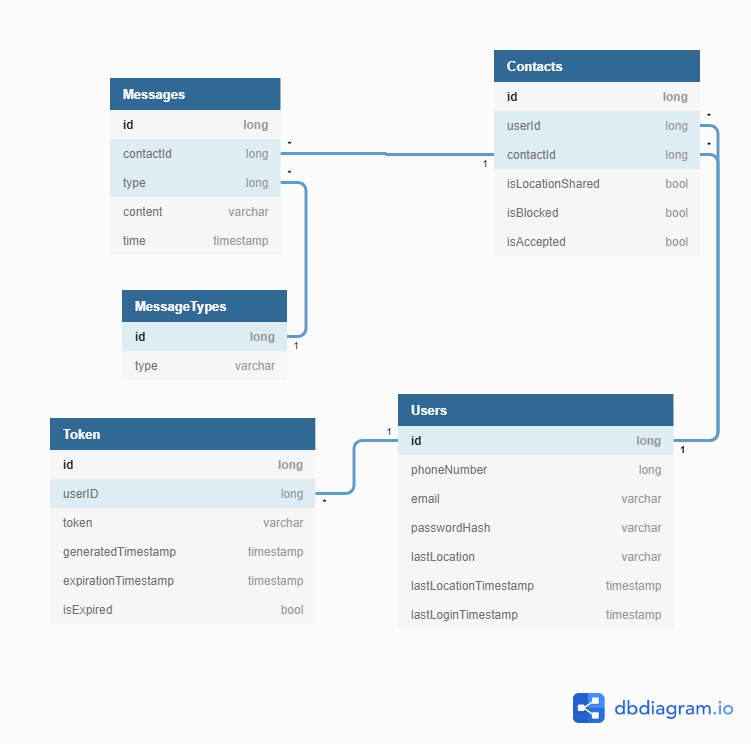
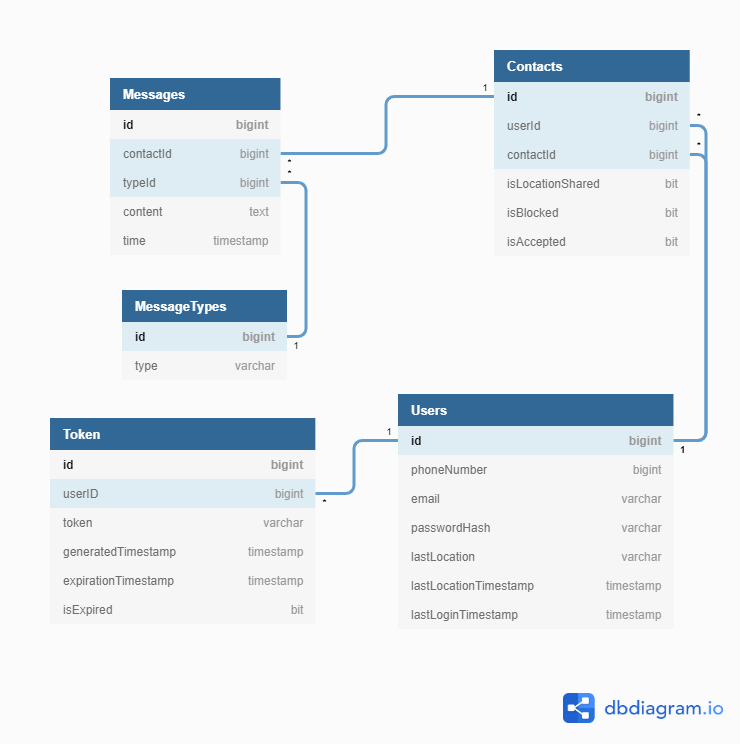
Started working on database project

diff --git a/docs/Stage-3/database-project.md b/docs/Stage-3/database-project.md
@@ -1,0 +1,60 @@
+# Projekt bazy danych
+
+## Diagram tabel oraz ich relacji
+![Projekt bazy](../../images/db-schema.png)
+
+## Opisy pól
+
+### MessageTypes
+| Nazwa | Typ     | Opis                                                  | Właściwości i ograniczenia                                  | PK                          | FK  |
+| ----- | ------- | ----------------------------------------------------- | ----------------------------------------------------------- | --------------------------- | --- |
+| id    | bigint  | Klucz główny tabeli.                                  | autoinkrementowane, unikalne, nie-null                      | ![](../../images/check.png) |     |
+| type  | varchar | Ciąg znaków identyfikujący typ zawartości wiadomości. | nie-null, musi mieć wartość z listy dopuszczalnych wartości |                             |     |
+  ----
+
+### Messages
+| Nazwa     | Typ       | Opis                                                                                                                 | Właściwości i ograniczenia                                                             | PK                          | FK                          |
+| --------- | --------- | -------------------------------------------------------------------------------------------------------------------- | -------------------------------------------------------------------------------------- | --------------------------- | --------------------------- |
+| id        | bigint    | Klucz główny tabeli.                                                                                                 | autoinkrementowane, unikalne, nie-null                                                 | ![](../../images/check.png) |                             |
+| contactId | bigint    | Klucz obcy relacji wiele do jednego z tabelą Contacts.                                                               | nie-null, w tabeli Contacts musi istnieć klucz główny o korespondującej wartości       |                             | ![](../../images/check.png) |
+| typeId    | bigint    | Klucz obcy relacji wiele do jednego z tabelą MessageTypes. Określa typ i format zawartości zapisanej w polu content. | nie-null, w tabeli MessageTypes musi istnieć klucz główny o odpowiadającej mu wartości |                             | ![](../../images/check.png) |
+| content   | text      | Zawartość wiadomości. Korzysta z kodowania znaków UTF-8.                                                             | nie-puste                                                                              |                             |                             |
+| time      | timestamp | Data i godzina (z dokładnością do sekund) wysłania wiadomości. Nie uwzględnia stref czasowych.                       | nie-null, nie może różnić się o więcej niż minutę od chwili wpisania do bazy           |                             |                             |
+  ----
+
+### Contacts
+| Nazwa            | Typ    | Opis                                                                                                    | Właściwości i ograniczenia                                                                                                                                                                                                                                                                   | PK                          | FK                          |
+| ---------------- | ------ | ------------------------------------------------------------------------------------------------------- | -------------------------------------------------------------------------------------------------------------------------------------------------------------------------------------------------------------------------------------------------------------------------------------------- | --------------------------- | --------------------------- |
+| id               | bigint | Klucz główny tabeli.                                                                                    | autoinkrementowane, unikalne, nie-null                                                                                                                                                                                                                                                       | ![](../../images/check.png) |                             |
+| userId           | bigint | Klucz obcy relacji wiele do jednego z tabelą Users. Określa właściciela kontaktu.                       | nie-null, w tabeli Users musi istnieć klucz główny o korespondującej wartości                                                                                                                                                                                                                |                             | ![](../../images/check.png) |
+| contactId        | bigint | Klucz obcy relacji wiele do jednego z tabelą Users. Określa użytkownika będącego obiektem kontaktu.     | nie-null, w tabeli Users musi istnieć klucz główny o odpowiadającej mu wartości                                                                                                                                                                                                              |                             | ![](../../images/check.png) |
+| isLocationShared | bit    | Przechowuje stan współdzielenia lokalizacji (włączone/wyłączone) przez właściciela do obiektu kontaktu. | nie-null, domyślna wartośc 0 (fałsz)                                                                                                                                                                                                                                                         |                             |                             |
+| isBlocked        | bit    | Przechowuje stan blokady obiektu kontaktu B przez właściciela A.                                        | nie-null, domyślna wartość 0                                                                                                                                                                                                                                                                 |                             |                             |
+| isAccepted       | bit    | Przechowuje stan akceptacji prośby o kontakt (oczekująca/zaakceptowana)                                 | nie-null, domyślna wartość 0 (fałsz), zmiana wartości na 1 (prawda) w rekordzie opisującym kontakt między właścicielem A a obiektem kontaktu B powoduje utworzenie nowego rekordu opisującego kontakt między właścicielem B a obiektem kontaktu A (z wartością 1 (prawda) w polu isAccepted) |                             |                             |
+    
+  ----
+### Users
+| Nazwa                 | Typ       | Opis                                                        | Właściwości i ograniczenia                                                          | PK                          | FK  |
+| --------------------- | --------- | ----------------------------------------------------------- | ----------------------------------------------------------------------------------- | --------------------------- | --- |
+| id                    | bigint    | Klucz główny tabeli.                                        | autoinkrementowane, unikalne, nie-null                                              | ![](../../images/check.png) |     |
+| phoneNumer            | varchar   | Numer telefonu użytkownika powiązany z kontem.              | unikalne, nie-null, nie-puste, sprawdzane pod kątem zgodności wyrażeniem regularnym |                             |     |
+| email                 | varchar   | Adres email użytkownika powiązany z kontem.                 | unikalne, nie-null, nie-puste, sprawdzane pod kątem zgodności wyrażeniem regularnym |                             |     |
+| passwordHash          | varchar   | Zasolony i popieprzony hash hasła użytkownika.              | określona długość, nie-null, nie-puste                                              |                             |     |
+| lastLocation          | varchar   | Ciąg znaków określający lokalizację użytkownika.            | zmiana zawartości wyzwala aktualizację pola lastLocationTimestamp                   |                             |     |
+| lastLocationTimestamp | timestamp | Data i czas ostatniej aktualizacji lokalizacji użytkownika. | aktualizowane automatycznie w momencie zmiany zawartości pola lastLocation.         |                             |     |
+| lastLoginTimestamp    | timestamp | Data i czas ostatniego logowania użytkownika.               |                                                                                     |                             |     |
+  
+  ----
+### Token
+| Nazwa               | Typ       | Opis                                                                                                                                                                                             | Właściwości i ograniczenia                                                                                                                                                            | PK                          | FK                          |
+| ------------------- | --------- | ------------------------------------------------------------------------------------------------------------------------------------------------------------------------------------------------ | ------------------------------------------------------------------------------------------------------------------------------------------------------------------------------------- | --------------------------- | --------------------------- |
+| id                  | bigint    | Klucz główny tabeli.                                                                                                                                                                             | autoinkrementowane, unikalne, nie-null                                                                                                                                                | ![](../../images/check.png) |                             |
+| userId              | bigint    | Klucz obcy relacji wiele do jednego z tabelą Users. Określa właściciela tokenu.                                                                                                                  | nie-null, w tabeli Users musi istnieć klucz główny o korespondującej wartości                                                                                                         |                             | ![](../../images/check.png) |
+| token               | varchar   | Token służący do weryfikacji autentyczności zapytań z wysyłanych klienta oraz przechowywania logowania użytkownika.                                                                              | nie-null, nie-pusty, unikalny                                                                                                                                                         |                             |                             |
+| generatedTimestamp  | timestamp | Określa moment wygenerowania tokenu. Nie uwzględnia stref czasowych.                                                                                                                             | nie-null, nie może różnić się o więcej niż minutę od chwili wpisania do bazy, okresowo porównywany do aktualnego czasu i usuwany jeśli określa czas przeszły w stosunku do aktualnego |                             |                             |
+| expirationTimestamp | timestamp | Określa datę i czas wygaśnięcia tokenu. Nie uwzględnia stref czasowych.                                                                                                                          | nie-null, musi opisywać moment przyszły w stosunku do chwili wpisania do bazy                                                                                                         |                             |                             |
+| isExpired           | bit       | Przechowuje informację o wygaśnięciu tokenu (przedwczesne wygaśnięcie następuje w wyniku wylogowania się użytkownika). Wygaśnięte tokeny muszą być przechowywane na wypadek próby podszycia się. | nie-null, domyślna wartość 0 (fałsz)                                                                                                                                                  |                             |                             |
+  ----
+## Opis relacji
+
+## Opis mechanizmów bazy danych
